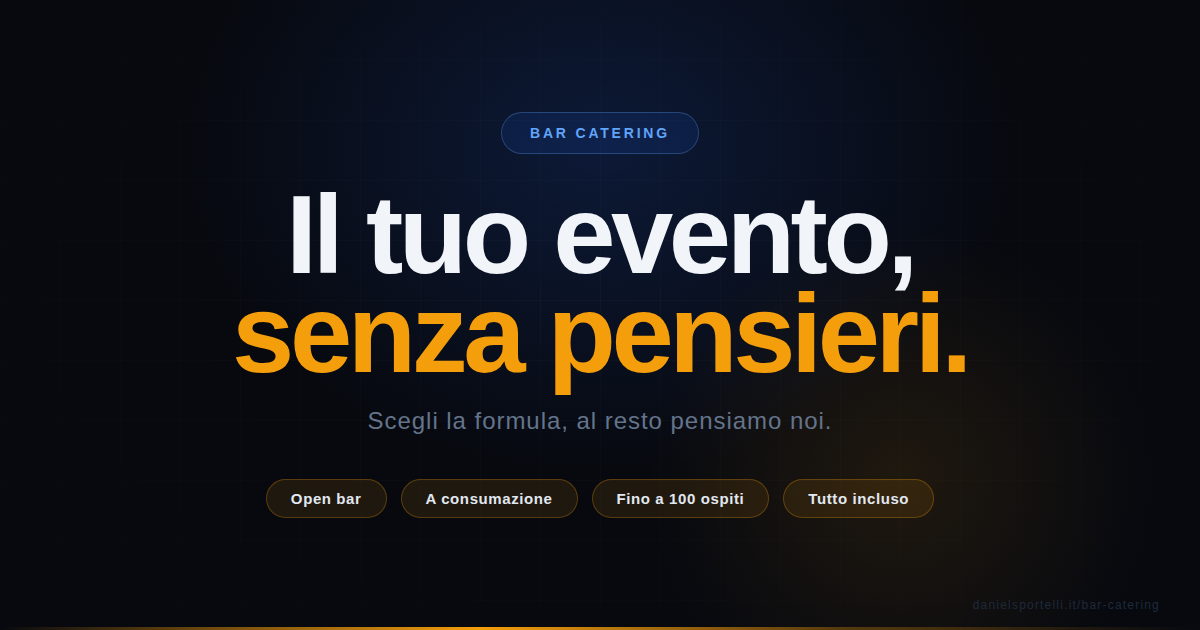
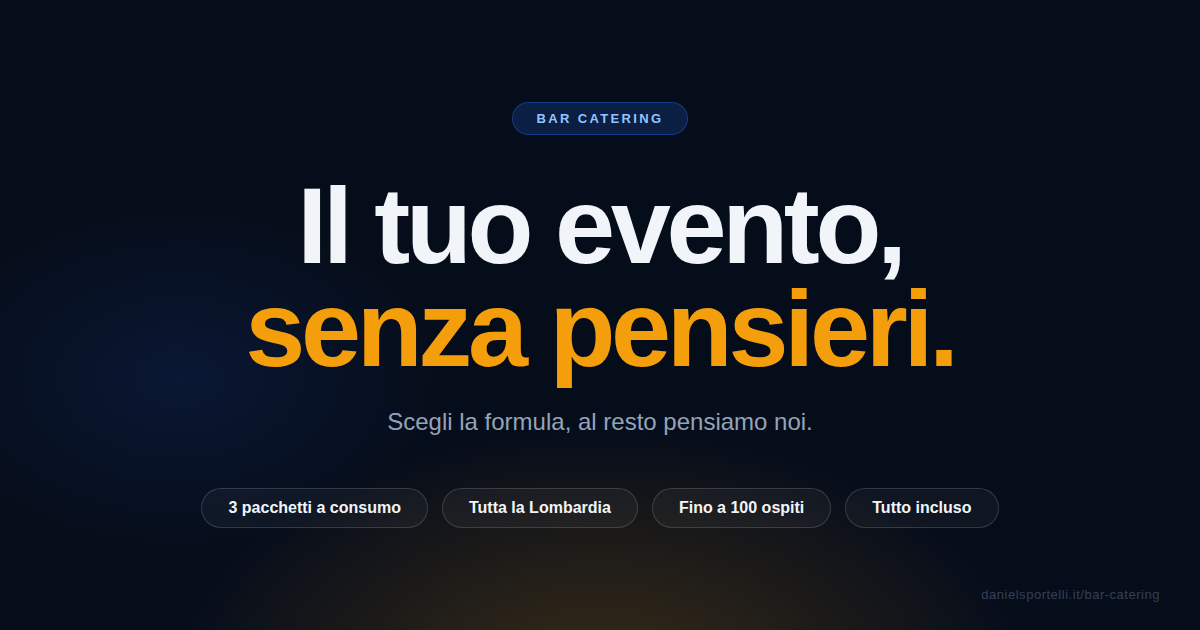
up

diff --git a/bar-catering.html b/bar-catering.html
@@ -1052,7 +1052,7 @@
 
 
 
-  /* Open bar card */
+  /* Card calcolatore */
   .ob-card {
     background: linear-gradient(145deg, rgba(245,158,11,0.18) 0%, rgba(15,23,42,0.95) 100%);
     border: 1px solid rgba(245,158,11,0.35);
@@ -1646,6 +1646,8 @@
     <h1>Il tuo evento,<br><span>senza pensieri.</span></h1>
     <p class="hero-sub">Scegli la formula, al resto pensiamo noi.</p>
     <a href="#preventivo" class="hero-cta" onclick="event.preventDefault();document.getElementById('calc-anchor').scrollIntoView({behavior:'smooth', block:'start'});">Calcola il preventivo →</a>
+    <p style="font-size:0.72rem;color:#475569;margin-top:1.25rem;letter-spacing:0.04em;">Servizio attivo in tutta la Lombardia</p>
+    <p style="font-size:0.78rem;color:#64748b;margin-top:0.5rem;font-style:italic;">Professionalità da 15 anni. Zero improvvisazione.</p>
   </div>
 
   <!-- ── CAROSELLO PLACEHOLDER ── -->
@@ -1676,12 +1678,6 @@
   </div>
 
   <!-- QUOTE -->
-  <div class="quote-wrap section">
-    <span class="quote-mark">&ldquo;</span>
-    <p class="quote-text">Professionalità da 15 anni.<br>Zero improvvisazione.</p>
-  </div>
-
-
   <!-- ── IL SERVIZIO ── -->
   <div class="section">
     <p class="section-label">Il servizio</p>
@@ -1849,7 +1845,7 @@
         </div>
         <ul class="fit-list">
           <li>Ti sei già affidato a un catering completo</li>
-          <li>Cerchi un open bar per 200+ persone</li>
+          <li>Cerchi un servizio per 200+ persone</li>
           <li>Vuoi una mega struttura bar</li>
           <li>Hai bisogno di allestimenti elaborati</li>
         </ul>
@@ -1927,11 +1923,17 @@
     <div class="config-title">Seleziona la provincia dell'evento</div>
     <div class="provincia-grid">
       <button class="prov-btn active" onclick="setProv(this, 'BG', 0)">BG</button>
-      <button class="prov-btn" onclick="setProv(this, 'MI', 100)">MI</button>
-      <button class="prov-btn" onclick="setProv(this, 'BS', 100)">BS</button>
-      <button class="prov-btn" onclick="setProv(this, 'LC', 100)">LC</button>
-      <button class="prov-btn" onclick="setProv(this, 'CR', 100)">CR</button>
-      <button class="prov-btn" onclick="setProv(this, 'MB', 100)">MB</button>
+      <button class="prov-btn" onclick="setProv(this, 'MI', 71)">MI</button>
+      <button class="prov-btn" onclick="setProv(this, 'BS', 71)">BS</button>
+      <button class="prov-btn" onclick="setProv(this, 'LC', 71)">LC</button>
+      <button class="prov-btn" onclick="setProv(this, 'CR', 71)">CR</button>
+      <button class="prov-btn" onclick="setProv(this, 'MB', 71)">MB</button>
+      <button class="prov-btn" onclick="setProv(this, 'CO', 71)">CO</button>
+      <button class="prov-btn" onclick="setProv(this, 'VA', 71)">VA</button>
+      <button class="prov-btn" onclick="setProv(this, 'PV', 71)">PV</button>
+      <button class="prov-btn" onclick="setProv(this, 'MN', 71)">MN</button>
+      <button class="prov-btn" onclick="setProv(this, 'SO', 71)">SO</button>
+      <button class="prov-btn" onclick="setProv(this, 'LO', 71)">LO</button>
     </div>
   </div>
 
@@ -1939,78 +1941,50 @@
   <div class="risultati visible" id="risultati">
 
     <div style="text-align:center;padding:2rem 0 1.5rem;">
-      <div style="font-size:0.65rem;font-weight:700;letter-spacing:0.2em;text-transform:uppercase;color:var(--dim);margin-bottom:0.5rem;">Formula</div>
-      <div style="font-size:1.1rem;font-weight:800;letter-spacing:-0.02em;color:var(--txt);margin-bottom:0.4rem;">Due formule, stessa qualità.</div>
-      <div style="font-size:0.85rem;color:var(--txt2);">Scegli tra drink illimitati o consumazioni predefinite.</div>
+      <div style="font-size:0.65rem;font-weight:700;letter-spacing:0.2em;text-transform:uppercase;color:var(--dim);margin-bottom:0.5rem;">Pacchetti</div>
+      <div style="font-size:1.1rem;font-weight:800;letter-spacing:-0.02em;color:var(--txt);margin-bottom:0.4rem;">Scegli il pacchetto giusto.</div>
+      <div style="font-size:0.85rem;color:var(--txt2);">Essenziale, Standard o Elite — il prezzo si aggiorna in base agli ospiti.</div>
       <div style="font-size:2.5rem;color:var(--amber);margin-top:0.75rem;line-height:1;">↓</div>
     </div>
 
     <div class="formule-grid">
-
-      <!-- OPEN BAR -->
-      <div class="ob-card">
-        <div class="ob-select-indicator">
-          <svg viewBox="0 0 24 24" fill="none" stroke="#000" stroke-width="3" stroke-linecap="round" stroke-linejoin="round" style="width:13px;height:13px;"><polyline points="20 6 9 17 4 12"/></svg>
-        </div>
-        <!-- Riga superiore: prezzo sinistra + incluso destra -->
-        <div style="display:flex;flex-direction:row;gap:1.25rem;align-items:flex-start;position:relative;z-index:1;">
-          <div style="flex:1;">
-            <div class="ob-badge">Open Bar</div>
-            <div class="ob-title">Drink illimitati</div>
-            <div class="ob-subtitle" style="color:var(--dim);font-size:0.72rem;margin-bottom:1rem;line-height:1.4;">3 ore · 2 barman · tutto incluso</div>
-            <div class="ob-price" id="ob-price">—</div>
-            <div class="ob-price-note" id="ob-note"></div>
-
-          </div>
-          <div class="ob-incluso">
-            <div class="ob-incluso-title">Incluso</div>
-            <ul class="ob-incluso-list">
-              <li>Postazione premium</li>
-              <li>Trasporto</li>
-              <li>Montaggio</li>
-              <li>Bicchieri in vetro</li>
-              <li>Ghiaccio</li>
-              <li>Drink list standard</li>
-              <li>2 barman pro</li>
-              <li>Pulizia finale</li>
-            </ul>
-          </div>
-        </div>
-        <!-- Extra sotto full width -->
-        <div style="padding-top:0.75rem;border-top:1px solid rgba(245,158,11,0.15);position:relative;z-index:1;">
-          <div style="font-size:0.62rem;font-weight:700;letter-spacing:0.1em;text-transform:uppercase;color:var(--dim);margin-bottom:0.4rem;">Extra opzionali</div>
-          <div style="font-size:0.75rem;color:var(--txt2);line-height:1.8;">
-            Ora aggiuntiva <span style="color:var(--amber);font-weight:700;">+250€</span> &nbsp;·&nbsp;
-            Drink list su misura <span style="color:var(--amber);font-weight:700;">+150€</span>
-          </div>
-          <div style="font-size:0.65rem;color:var(--dim);margin-top:0.6rem;opacity:0.7;">Tutti i prezzi si intendono IVA e tasse incluse</div>
-        </div>
-      </div>
-
-      <!-- A CONSUMO -->      <!-- A CONSUMO -->
+      <!-- CALCOLATORE -->
       <div class="ac-card">
-        <div class="ac-badge">A consumo</div>
+        <div class="ac-badge">Bar Catering</div>
         <div class="ac-title">Scegli il pacchetto</div>
         <div class="ac-subtitle">Servizio 3 ore · 2 barman<br><span style="font-size:0.65rem;opacity:0.7;">1 consumazione = 1 drink, shot, bibita o acqua</span></div>
-        <div id="ac-packages"></div>
-        <div id="ac-selected-price" style="display:none;margin-top:0.75rem;padding:1rem;border-radius:12px;background:rgba(37,99,235,0.1);border:1px solid rgba(96,165,250,0.2);position:relative;z-index:1;">
-          <div style="display:flex;justify-content:space-between;align-items:center;margin-bottom:0.5rem;">
-            <div style="font-size:0.72rem;font-weight:700;letter-spacing:0.08em;text-transform:uppercase;color:var(--blue-l);">Preventivo stimato</div>
-          </div>
-          <div id="ac-selected-label" style="font-size:0.8rem;color:var(--txt2);margin-bottom:1rem;"></div>
-          <div id="ac-selected-num" style="font-size:2rem;font-weight:900;letter-spacing:-0.04em;color:var(--txt);line-height:1;margin-bottom:1rem;"></div>
 
-          <div style="padding-top:0.6rem;border-top:1px solid rgba(96,165,250,0.12);">
+        <!-- Lista incluso -->
+        <div style="margin:0.75rem 0 1rem;padding:0.75rem 1rem;border-radius:10px;background:rgba(255,255,255,0.04);border:1px solid rgba(255,255,255,0.07);">
+          <div style="font-size:0.62rem;font-weight:700;letter-spacing:0.1em;text-transform:uppercase;color:var(--dim);margin-bottom:0.5rem;">Incluso in tutti i pacchetti</div>
+          <div style="display:grid;grid-template-columns:1fr 1fr;gap:0.25rem 0.5rem;">
+            <div style="font-size:0.72rem;color:var(--txt2);display:flex;align-items:center;gap:0.35rem;"><svg width="10" height="10" viewBox="0 0 24 24" fill="none" stroke="#f59e0b" stroke-width="2.5" stroke-linecap="round" stroke-linejoin="round"><polyline points="20 6 9 17 4 12"/></svg>Postazione premium</div>
+            <div style="font-size:0.72rem;color:var(--txt2);display:flex;align-items:center;gap:0.35rem;"><svg width="10" height="10" viewBox="0 0 24 24" fill="none" stroke="#f59e0b" stroke-width="2.5" stroke-linecap="round" stroke-linejoin="round"><polyline points="20 6 9 17 4 12"/></svg>Trasporto</div>
+            <div style="font-size:0.72rem;color:var(--txt2);display:flex;align-items:center;gap:0.35rem;"><svg width="10" height="10" viewBox="0 0 24 24" fill="none" stroke="#f59e0b" stroke-width="2.5" stroke-linecap="round" stroke-linejoin="round"><polyline points="20 6 9 17 4 12"/></svg>Montaggio</div>
+            <div style="font-size:0.72rem;color:var(--txt2);display:flex;align-items:center;gap:0.35rem;"><svg width="10" height="10" viewBox="0 0 24 24" fill="none" stroke="#f59e0b" stroke-width="2.5" stroke-linecap="round" stroke-linejoin="round"><polyline points="20 6 9 17 4 12"/></svg>Bicchieri in vetro</div>
+            <div style="font-size:0.72rem;color:var(--txt2);display:flex;align-items:center;gap:0.35rem;"><svg width="10" height="10" viewBox="0 0 24 24" fill="none" stroke="#f59e0b" stroke-width="2.5" stroke-linecap="round" stroke-linejoin="round"><polyline points="20 6 9 17 4 12"/></svg>Ghiaccio</div>
+            <div style="font-size:0.72rem;color:var(--txt2);display:flex;align-items:center;gap:0.35rem;"><svg width="10" height="10" viewBox="0 0 24 24" fill="none" stroke="#f59e0b" stroke-width="2.5" stroke-linecap="round" stroke-linejoin="round"><polyline points="20 6 9 17 4 12"/></svg>Drink list standard</div>
+            <div style="font-size:0.72rem;color:var(--txt2);display:flex;align-items:center;gap:0.35rem;"><svg width="10" height="10" viewBox="0 0 24 24" fill="none" stroke="#f59e0b" stroke-width="2.5" stroke-linecap="round" stroke-linejoin="round"><polyline points="20 6 9 17 4 12"/></svg>2 barman pro</div>
+            <div style="font-size:0.72rem;color:var(--txt2);display:flex;align-items:center;gap:0.35rem;"><svg width="10" height="10" viewBox="0 0 24 24" fill="none" stroke="#f59e0b" stroke-width="2.5" stroke-linecap="round" stroke-linejoin="round"><polyline points="20 6 9 17 4 12"/></svg>Pulizia finale</div>
+          </div>
+        </div>
+
+        <div id="ac-packages"></div>
+
+        <div id="ac-selected-price" style="display:none;margin-top:0.75rem;padding:1rem;border-radius:12px;background:rgba(245,158,11,0.08);border:1px solid rgba(245,158,11,0.25);position:relative;z-index:1;">
+          <div style="font-size:0.72rem;font-weight:700;letter-spacing:0.08em;text-transform:uppercase;color:var(--amber);margin-bottom:0.5rem;">Preventivo stimato</div>
+          <div id="ac-selected-label" style="font-size:0.8rem;color:var(--txt2);margin-bottom:0.5rem;"></div>
+          <div id="ac-selected-num" style="font-size:2rem;font-weight:900;letter-spacing:-0.04em;color:var(--txt);line-height:1;margin-bottom:1rem;"></div>
+          <div style="padding-top:0.6rem;border-top:1px solid rgba(245,158,11,0.15);">
             <div style="font-size:0.62rem;font-weight:700;letter-spacing:0.1em;text-transform:uppercase;color:var(--dim);margin-bottom:0.35rem;">Extra opzionali</div>
-            <div style="font-size:0.72rem;color:var(--txt2);line-height:1.8;">
-              Ora aggiuntiva <span style="color:var(--blue-l);font-weight:700;">+250€</span><br>
-              +50 consumazioni <span style="color:var(--blue-l);font-weight:700;">+250€</span><br>
-              Drink list su misura <span style="color:var(--blue-l);font-weight:700;">+150€</span>
+            <div style="font-size:0.72rem;color:var(--txt2);line-height:1.9;">
+              Ora aggiuntiva <span style="color:var(--amber);font-weight:700;">+150€</span><br>
+              +25 consumazioni <span style="color:var(--amber);font-weight:700;">+100€</span><br>
+              Drink list su misura <span style="color:var(--amber);font-weight:700;">+150€</span>
             </div>
           </div>
           <div style="font-size:0.65rem;color:var(--dim);margin-top:0.6rem;opacity:0.7;">Tutti i prezzi si intendono IVA e tasse incluse</div>
         </div>
-        <div class="ac-banner" id="ac-banner">Con questa configurazione <strong>l'Open Bar è più conveniente</strong> — tutti i pacchetti a consumo superano il suo prezzo.</div>
       </div>
 
     </div>
@@ -2107,39 +2081,25 @@
     ospiti: 50,
     provExtra: 0,
     provNome: 'BG',
-    formulaSelezionata: null, // 'ob' o 'ac-X'
-    extra: { ora: false, drink50: false, drinkList: false }
+    formulaSelezionata: null, // 'ac-0' | 'ac-1' | 'ac-2'
+    extra: { ora: false, consumazioni25: false, drinkList: false }
   };
 
   // ── LOGICA PREZZI ──
-  function prezzoOpenBar(ospiti, provExtra) {
-    // Prezzo fisso di listino
-    return 1299 + provExtra;
+  // Formula: (850 + N × cons/persona × 1.20) / 0.7091 arrotondato a 10€
+  // 850 = 200 costi fissi + 650 (parte residua per raggiungere 600€ netti dopo INPS+tasse)
+  function calcolaPrezzo(ospiti, consPerPersona, provExtra) {
+    var costoVar = ospiti * consPerPersona * 1.20;
+    var lordo = (850 + costoVar + provExtra) / 0.7091;
+    return Math.ceil(lordo / 10) * 10;
   }
 
-  function prezzoAConsumo(drink, provExtra) {
-    // Fissi ridotti (750) + beverage (1.27/drink) + margine (150) + trasferta
-    var costo = 750 + (drink * 1.27) + 150 + provExtra;
-    // Arrotonda al 9
-    return Math.ceil(costo / 10) * 10 - 1;
-  }
-
-  function arrotonda5(n) {
-    return Math.round(n / 5) * 5;
-  }
-
-  function pacchetti(ospiti) {
-    var d1 = arrotonda5(ospiti * 1);
-    var d2 = arrotonda5(ospiti * 1.5);
-    var d3 = arrotonda5(ospiti * 2);
-    var d4 = arrotonda5(ospiti * 3);
-    return [
-      { nome: d1 + ' consumazioni', drink: d1, label: '1 consumazione/persona' },
-      { nome: d2 + ' consumazioni', drink: d2, label: '1,5 consumazioni/persona' },
-      { nome: d3 + ' consumazioni', drink: d3, label: '2 consumazioni/persona' },
-      { nome: d4 + ' consumazioni', drink: d4, label: '3 consumazioni/persona' },
-    ];
-  }
+  // 3 pacchetti fissi
+  var PACCHETTI = [
+    { id: 'basic',   nome: 'Basic x1',  cons: 1, badge: null },
+    { id: 'party',   nome: 'Party x2',  cons: 2, badge: 'CONSIGLIATO' },
+    { id: 'event',   nome: 'Event x3',  cons: 3, badge: null },
+  ];
 
   // ── AGGIORNA UI ──
   function aggiorna() {
@@ -2159,46 +2119,37 @@
   }
 
   function renderFormule() {
-    var ob = prezzoOpenBar(stato.ospiti, stato.provExtra);
-    document.getElementById('ob-price').textContent = ob.toLocaleString('it-IT') + '€';
-    document.getElementById('ob-note').textContent = stato.provExtra > 0 ? 'Supplemento trasferta +100€' : '';
-
-    var pkgs = pacchetti(stato.ospiti);
     var html = '';
-    pkgs.forEach(function(p, i) {
-      var prezzo = prezzoAConsumo(p.drink, stato.provExtra);
+    PACCHETTI.forEach(function(p, i) {
+      var prezzo = calcolaPrezzo(stato.ospiti, p.cons, stato.provExtra);
       var isSelected = stato.formulaSelezionata === 'ac-' + i;
-      var noteOB = '';
-      html += '<div class="ac-pkg' + (isSelected ? ' selected' : '') + '" style="margin-bottom:0.5rem" onclick="selezionaAC(' + i + ')">';
-      html += '<div class="ac-pkg-left"><div class="ac-pkg-name">' + p.nome + noteOB + '</div><div class="ac-pkg-drinks">' + p.label + '</div></div>';
-      html += '<div class="ac-pkg-price">' + prezzo.toLocaleString('it-IT') + '€</div>';
+      var totCons = stato.ospiti * p.cons;
+
+      html += '<div style="position:relative;margin-bottom:0.5rem;">';
+      html += '<div class="ac-pkg' + (isSelected ? ' selected' : '') + '" onclick="selezionaAC(' + i + ')" style="display:flex;align-items:center;gap:0.75rem;position:relative;overflow:hidden;">';
+
+      // Radio button
+      html += '<div style="width:20px;height:20px;border-radius:50%;border:2px solid ' + (isSelected ? 'var(--amber)' : 'rgba(255,255,255,0.2)') + ';background:' + (isSelected ? 'var(--amber)' : 'transparent') + ';display:flex;align-items:center;justify-content:center;flex-shrink:0;transition:all 0.18s;">';
+      if (isSelected) {
+        html += '<svg viewBox="0 0 24 24" fill="none" stroke="#0a0f1e" stroke-width="3" stroke-linecap="round" stroke-linejoin="round" width="11" height="11"><polyline points="20 6 9 17 4 12"/></svg>';
+      }
       html += '</div>';
+
+      // Testo — solo totale consumazioni
+      html += '<div class="ac-pkg-left" style="flex:1;"><div class="ac-pkg-name" style="display:flex;align-items:center;gap:0.4rem;">' + p.nome;
+      if (p.badge) {
+        html += '<span style="background:var(--amber);color:#0a0f1e;font-size:0.45rem;font-weight:800;letter-spacing:0.1em;text-transform:uppercase;padding:2px 7px;border-radius:4px;line-height:1.4;">' + p.badge + '</span>';
+      }
+      html += '</div>';
+      html += '<div class="ac-pkg-drinks">' + totCons + ' consumazioni totali</div></div>';
+      html += '<div class="ac-pkg-price">' + prezzo.toLocaleString('it-IT') + '€</div>';
+      html += '</div></div>';
     });
     document.getElementById('ac-packages').innerHTML = html;
-
-    // extras info-only
   }
-
-  function selezionaOB() {
-    stato.formulaSelezionata = 'ob';
-    var selPrice = document.getElementById('ac-selected-price');
-    if (selPrice) selPrice.style.display = 'none';
-    document.querySelectorAll('.ac-pkg').forEach(function(p){ p.classList.remove('selected'); });
-    var obCard = document.querySelector('.ob-card');
-    if (obCard) obCard.classList.add('selected');
-    aggiornaTotale();
-  }
-
-  // make ob-card clickable - wait for DOM
-  document.addEventListener('DOMContentLoaded', function() {
-    var obCard = document.querySelector('.ob-card');
-    if (obCard) obCard.addEventListener('click', selezionaOB);
-  });
 
   function selezionaAC(i) {
     stato.formulaSelezionata = 'ac-' + i;
-    var obCard = document.querySelector('.ob-card');
-    if (obCard) obCard.classList.remove('selected');
     renderFormule();
     aggiornaTotale();
   }
@@ -2207,35 +2158,21 @@
 
   function aggiornaTotale() {
     var selPrice = document.getElementById('ac-selected-price');
-
     if (!stato.formulaSelezionata) {
       if (selPrice) selPrice.style.display = 'none';
       return;
     }
-
-    if (stato.formulaSelezionata === 'ob') {
-      // Hide AC price card
-      if (selPrice) selPrice.style.display = 'none';
-      // Track
-      var ob = prezzoOpenBar(stato.ospiti, stato.provExtra);
-      if (typeof gtag === 'function') gtag('event', 'preventivo_calcolato', { event_category: 'lead', value: ob });
-
-    } else {
-      // Show AC price card
-      var idx = parseInt(stato.formulaSelezionata.split('-')[1]);
-      var pkgs = pacchetti(stato.ospiti);
-      var p = pkgs[idx];
-      var prezzoBase = prezzoAConsumo(p.drink, stato.provExtra);
-
-      var selLabel = document.getElementById('ac-selected-label');
-      var selNum = document.getElementById('ac-selected-num');
-      if (selPrice && selLabel && selNum) {
-        selLabel.textContent = p.nome + (stato.provExtra > 0 ? ' · ' + stato.provNome + ' (+100€ trasferta)' : ' · ' + stato.provNome);
-        selNum.textContent = prezzoBase.toLocaleString('it-IT') + '€';
-        selPrice.style.display = 'block';
-      }
-      if (typeof gtag === 'function') gtag('event', 'preventivo_calcolato', { event_category: 'lead', value: prezzoBase });
+    var idx = parseInt(stato.formulaSelezionata.split('-')[1]);
+    var p = PACCHETTI[idx];
+    var prezzoBase = calcolaPrezzo(stato.ospiti, p.cons, stato.provExtra);
+    var selLabel = document.getElementById('ac-selected-label');
+    var selNum = document.getElementById('ac-selected-num');
+    if (selPrice && selLabel && selNum) {
+      selLabel.textContent = p.nome + ' · ' + stato.ospiti + ' ospiti · ' + stato.provNome + (stato.provExtra > 0 ? ' (+140€ trasferta)' : '');
+      selNum.textContent = prezzoBase.toLocaleString('it-IT') + '€';
+      selPrice.style.display = 'block';
     }
+    if (typeof gtag === 'function') gtag('event', 'preventivo_calcolato', { event_category: 'lead', value: prezzoBase });
   }
 
   function mostraForm() {
@@ -2265,16 +2202,14 @@
     // Formatta data in italiano
     var dataFormatted = data ? (function(d){ var p = d.split('-'); return p[2]+'/'+p[1]+'/'+p[0]; })(data) : '';
 
-    // Build preventivo summary — solo consumazioni e prezzo
+    // Build preventivo summary
     var selNum = document.getElementById('ac-selected-num');
     var selLabel = document.getElementById('ac-selected-label');
     var preventivo = '';
-    if (stato.formulaSelezionata === 'ob') {
-      preventivo = 'Open Bar — ' + (1299 + stato.provExtra) + '€';
-    } else if (selNum && selLabel) {
-      // Prendi solo il testo delle consumazioni (es. "55 consumazioni") senza provincia
-      var labelParts = selLabel.textContent.split(' · ');
-      preventivo = (labelParts[0] || selLabel.textContent) + ' — ' + selNum.textContent;
+    if (stato.formulaSelezionata && selNum && selLabel) {
+      var idx2 = parseInt(stato.formulaSelezionata.split('-')[1]);
+      var pkg = PACCHETTI[idx2];
+      preventivo = pkg.nome + ' (' + pkg.cons + ' cons/persona) · ' + stato.ospiti + ' ospiti — ' + selNum.textContent;
     }
 
     var btn = document.querySelector('.cta-btn');